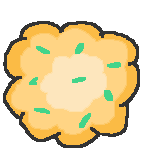
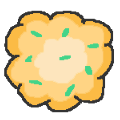
updating AIs with range, smaller explosion and rocket exploding at maximum range

diff --git a/src/pizzatales/Tato.java b/src/pizzatales/Tato.java
@@ -7,7 +7,7 @@ public class Tato extends Enemy {
 	protected int movementParam;
 	protected boolean isShooting;
 	public static Image staySprite, move1Sprite, move2Sprite, dieSprite;
-	private final static int range = 270;
+	private final static int range = 470;
 
 	public Tato(int centerX, int centerY) {
 		super(centerX,centerY, new Gun(), 2, 2);
@@ -48,25 +48,25 @@ public class Tato extends Enemy {
 				int difYu = player.getCenterY() - getCenterY();
 				int absdifXu = Math.abs(difXu);
 				int absdifYu = Math.abs(difYu);
-				if (absdifXu < 80 && difYu > 0 && difYu < 400) {
+				if (absdifXu < 80 && difYu > 0 && difYu < 530) {
 					stopMoving();
 					isShooting = true;
 					if (weapon.isReady2Fire()) {
 						shootDown();
 					}
-				} else if (absdifXu < 80 && difYu < 0 && difYu > -400) {
+				} else if (absdifXu < 80 && difYu < 0 && difYu > -530) {
 					stopMoving();
 					isShooting = true;
 					if (weapon.isReady2Fire()) {
 						shootUp();
 					}
-				} else if (absdifYu < 80 && difXu > 0 && difXu < 400) {
+				} else if (absdifYu < 80 && difXu > 0 && difXu < 530) {
 					stopMoving();
 					isShooting = true;
 					if (weapon.isReady2Fire()) {
 						shootRight();
 					}
-				} else if (absdifYu < 80 && difXu < 0 && difXu > -400) {
+				} else if (absdifYu < 80 && difXu < 0 && difXu > -530) {
 					stopMoving();
 					isShooting = true;
 					if (weapon.isReady2Fire()) {
@@ -113,12 +113,12 @@ public class Tato extends Enemy {
 				if (weapon.isReady2Fire()) {
 					int diffx = Math.abs(getCenterX() - player.getCenterX());
 					int diffy = Math.abs(getCenterY() - player.getCenterY());
-					if (diffx > diffy && diffy < 80 && diffx < 400) {
+					if (diffx > diffy && diffy < 80 && diffx < 530) {
 						if (player.getCenterX() > getCenterX())
 							shootRight();
 						else
 							shootLeft();
-					} else if (diffx < 80 && diffy < 400){
+					} else if (diffx < 80 && diffy < 530){
 						if (player.getCenterY() > getCenterY())
 							shootDown();
 						else
@@ -163,12 +163,12 @@ public class Tato extends Enemy {
 				if (weapon.isReady2Fire()) {
 					int diffx = Math.abs(getCenterX() - player.getCenterX());
 					int diffy = Math.abs(getCenterY() - player.getCenterY());
-					if (diffx > diffy && diffy < 80 && diffx < 400) {
+					if (diffx > diffy && diffy < 80 && diffx < 530) {
 						if (player.getCenterX() > getCenterX())
 							shootRight();
 						else
 							shootLeft();
-					} else if (diffx < 80 && diffy < 400){
+					} else if (diffx < 80 && diffy < 530){
 						if (player.getCenterY() > getCenterY())
 							shootDown();
 						else
@@ -213,12 +213,12 @@ public class Tato extends Enemy {
 				if (weapon.isReady2Fire()) {
 					int diffx = Math.abs(getCenterX() - player.getCenterX());
 					int diffy = Math.abs(getCenterY() - player.getCenterY());
-					if (diffx > diffy && diffy < 80 && diffx < 400) {
+					if (diffx > diffy && diffy < 80 && diffx < 530) {
 						if (player.getCenterX() > getCenterX())
 							shootRight();
 						else
 							shootLeft();
-					} else if (diffx < 80 && diffy < 400){
+					} else if (diffx < 80 && diffy < 530){
 						if (player.getCenterY() > getCenterY())
 							shootDown();
 						else

diff --git a/src/pizzatales/Broccoli.java b/src/pizzatales/Broccoli.java
@@ -7,7 +7,7 @@ public class Broccoli extends Enemy {
 	protected int movementParam;
 	protected boolean isShooting;
 	public static Image staySprite, move1Sprite, move2Sprite, dieSprite;
-	private final static int range = 420;
+	private final static int range = 720;
 
 	public Broccoli(int centerX, int centerY) {
 		super(centerX,centerY, new Rocket(), 4, 1);
@@ -163,9 +163,11 @@ public class Broccoli extends Enemy {
 				break;
 			}
 			if (weapon.isReady2Fire()) {
+				int centerpX = 50*posx + bg.getCenterX() - bginitx;
+				int centerpY = 50*posy + bg.getCenterY() - bginity;
 				int diffx = Math.abs(getCenterX() - player.getCenterX());
 				int diffy = Math.abs(getCenterY() - player.getCenterY());
-				if (diffx > diffy && diffy < 80 && diffx < 460) {
+				if (diffx > diffy && diffy < 80 && diffx < range && Math.abs(centerpY-getCenterY())<10) {
 					if (player.getCenterX() > getCenterX()) {
 						if ((posx == pf.map.length - 2) ||
 						(posx == pf.map.length - 3 && pf.map[posx+1][posy]) ||
@@ -178,7 +180,7 @@ public class Broccoli extends Enemy {
 							(posx > 2 && pf.map[posx-1][posy] && pf.map[posx-2][posy]))
 							shootLeft();
 					}
-				} else if (diffx < 80 && diffy < 460){
+				} else if (diffx < 80 && diffy < range && Math.abs(centerpX-getCenterX())<10){
 					if (player.getCenterY() > getCenterY()) {
 						if ((posy == pf.map[0].length - 2) ||
 								(posy == pf.map[0].length - 3 && pf.map[posx][posy+1]) ||

diff --git a/src/pizzatales/Aubergine.java b/src/pizzatales/Aubergine.java
@@ -7,7 +7,7 @@ public class Aubergine extends Enemy {
 	protected int movementParam;
 	protected boolean isShooting;
 	public static Image staySprite, move1Sprite, move2Sprite, dieSprite;
-	private final static int range = 150;
+	private final static int range = 420;
 
 	public Aubergine(int centerX, int centerY) {
 		super(centerX,centerY, new Smg(), 4, 2);
@@ -165,12 +165,12 @@ public class Aubergine extends Enemy {
 			if (weapon.isReady2Fire()) {
 				int diffx = Math.abs(getCenterX() - player.getCenterX());
 				int diffy = Math.abs(getCenterY() - player.getCenterY());
-				if (diffx > diffy && diffy < 80 && diffx < 250) {
+				if (diffx > diffy && diffy < 80 && diffx < 480) {
 					if (player.getCenterX() > getCenterX())
 						shootRight();
 					else
 						shootLeft();
-				} else if (diffx < 80 && diffy < 250){
+				} else if (diffx < 80 && diffy < 480){
 					if (player.getCenterY() > getCenterY())
 						shootDown();
 					else

diff --git a/src/pizzatales/Mushroom.java b/src/pizzatales/Mushroom.java
@@ -7,7 +7,7 @@ public class Mushroom extends Enemy {
 	protected int movementParam;
 	protected boolean isShooting;
 	public static Image staySprite, move1Sprite, move2Sprite, dieSprite;
-	private final static int range = 430;
+	private final static int range = 570;
 
 	public Mushroom(int centerX, int centerY) {
 		super(centerX,centerY, new Rifle(), 4, 3);
@@ -165,12 +165,12 @@ public class Mushroom extends Enemy {
 			if (weapon.isReady2Fire()) {
 				int diffx = Math.abs(getCenterX() - player.getCenterX());
 				int diffy = Math.abs(getCenterY() - player.getCenterY());
-				if (diffx > diffy && diffy < 80 && diffx < 500) {
+				if (diffx > diffy && diffy < 80 && diffx < 630) {
 					if (player.getCenterX() > getCenterX())
 						shootRight();
 					else
 						shootLeft();
-				} else if (diffx < 80 && diffy < 500){
+				} else if (diffx < 80 && diffy < 630){
 					if (player.getCenterY() > getCenterY())
 						shootDown();
 					else

diff --git a/src/pizzatales/Projectile.java b/src/pizzatales/Projectile.java
@@ -33,10 +33,10 @@ public abstract class Projectile extends Stuff {
 		super.update();
 		rectP.setBounds(getCenterX() - halfsize, getCenterY() - halfsize, size, size);
 		if (Math.abs(this.getCenterX() - initX) > range) {
-			visible = false;
+			doOnLimitRange();
 		}
 		if (Math.abs(this.getCenterY() - initY) > range) {
-			visible = false;
+			doOnLimitRange();
 		}
 	}
 
@@ -81,4 +81,5 @@ public abstract class Projectile extends Stuff {
 	public abstract void doOnCollision(Player p);
 	public abstract void doOnCollision(Enemy e);
 	public abstract void doOnCollision(Tile t);
+	public abstract void doOnLimitRange();
 }

diff --git a/src/pizzatales/BazookaBullet.java b/src/pizzatales/BazookaBullet.java
@@ -59,4 +59,12 @@ public class BazookaBullet extends Projectile {
 			StartingClass.getExplosions().add(new BazookaBulletExplosion(this.centerX,this.centerY));
 		}
 	}
+
+	@Override
+	public void doOnLimitRange() {
+		if (visible) {
+			visible = false;
+			StartingClass.getExplosions().add(new BazookaBulletExplosion(this.centerX,this.centerY));
+		}
+	}
 }

diff --git a/src/pizzatales/BazookaBulletExplosion.java b/src/pizzatales/BazookaBulletExplosion.java
@@ -7,7 +7,7 @@ public class BazookaBulletExplosion extends Explosion {
 	public static Image bazookaexplosionsprite;
 	
 	public BazookaBulletExplosion(int startX, int startY) {
-		super(startX, startY, 150, 75, 1, 70, 10);
+		super(startX, startY, 120, 75, 1, 70, 10);
 	}
 
 	@Override

diff --git a/src/pizzatales/FlamerFlame.java b/src/pizzatales/FlamerFlame.java
@@ -33,4 +33,9 @@ public class FlamerFlame extends Projectile {
 	public void doOnCollision(Tile t) {
 		visible = false;
 	}
+
+	@Override
+	public void doOnLimitRange() {
+		visible = false;
+	}
 }

diff --git a/src/pizzatales/RifleBullet.java b/src/pizzatales/RifleBullet.java
@@ -33,4 +33,9 @@ public class RifleBullet extends Projectile {
 	public void doOnCollision(Tile t) {
 		visible = false;
 	}
+
+	@Override
+	public void doOnLimitRange() {
+		visible = false;
+	}
 }

diff --git a/src/pizzatales/SmgBullet.java b/src/pizzatales/SmgBullet.java
@@ -33,4 +33,9 @@ public class SmgBullet extends Projectile {
 	public void doOnCollision(Tile t) {
 		visible = false;
 	}
+
+	@Override
+	public void doOnLimitRange() {
+		visible = false;
+	}
 }

diff --git a/src/pizzatales/Bullet.java b/src/pizzatales/Bullet.java
@@ -33,4 +33,9 @@ public class Bullet extends Projectile {
 	public void doOnCollision(Tile t) {
 		visible = false;
 	}
+
+	@Override
+	public void doOnLimitRange() {
+		visible = false;
+	}
 }

diff --git a/src/pizzatales/ShotgunBullet.java b/src/pizzatales/ShotgunBullet.java
@@ -34,4 +34,9 @@ public class ShotgunBullet extends Projectile {
 		visible = false;
 	}
 
+	@Override
+	public void doOnLimitRange() {
+		visible = false;
+	}
+
 }
